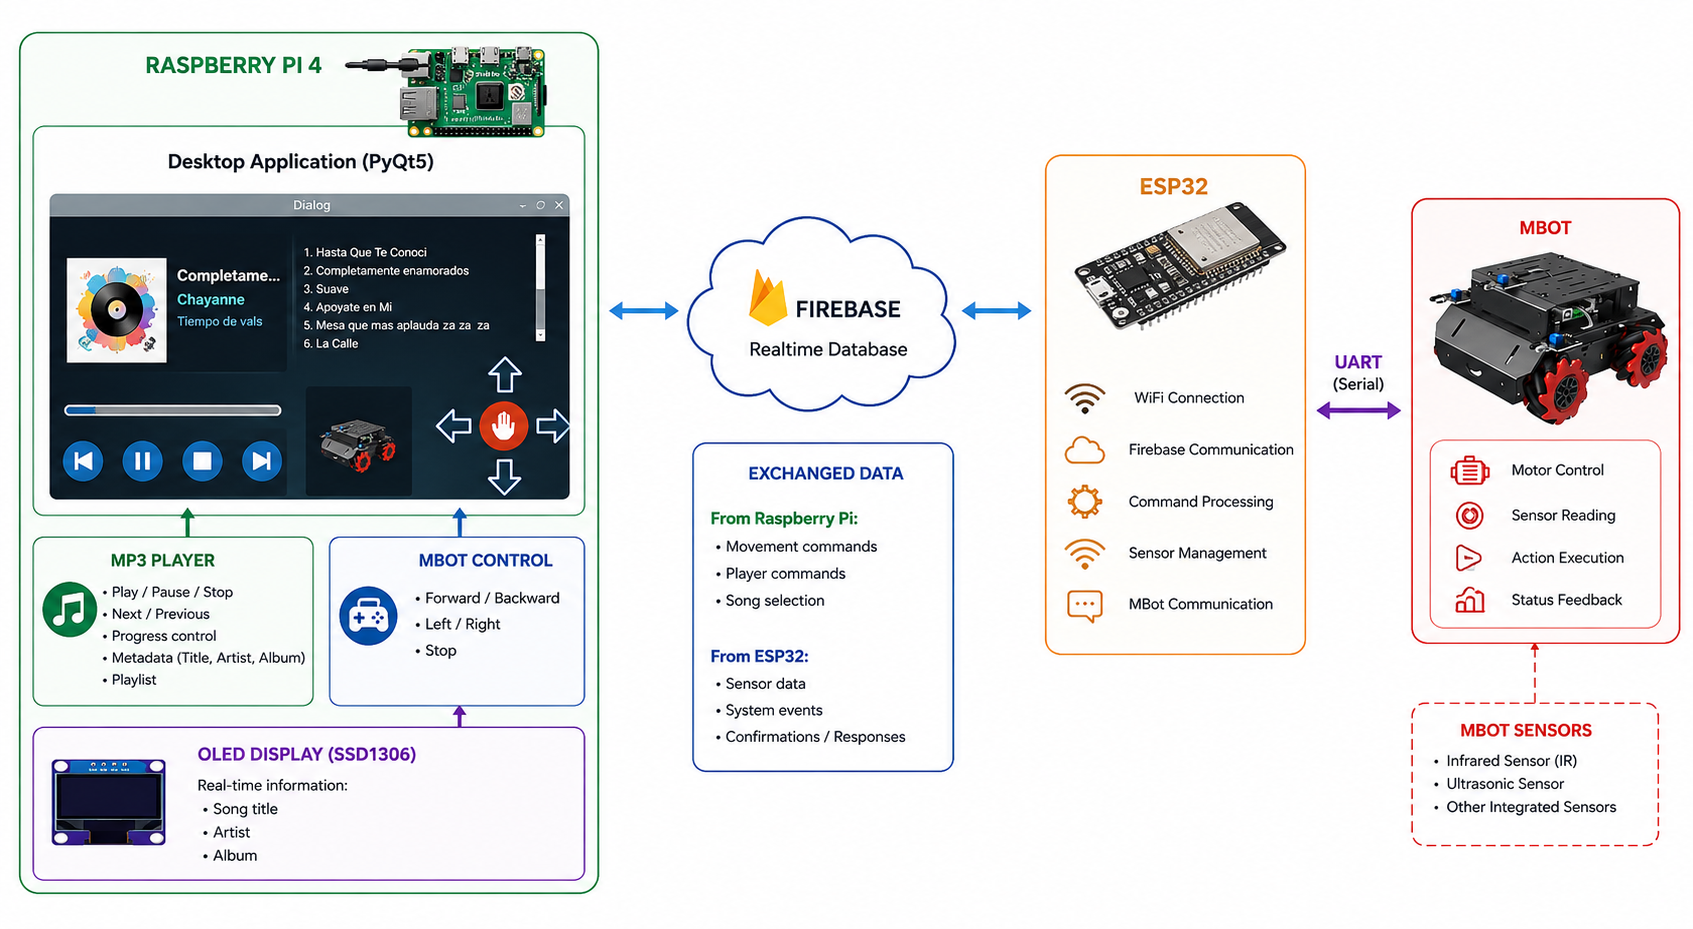
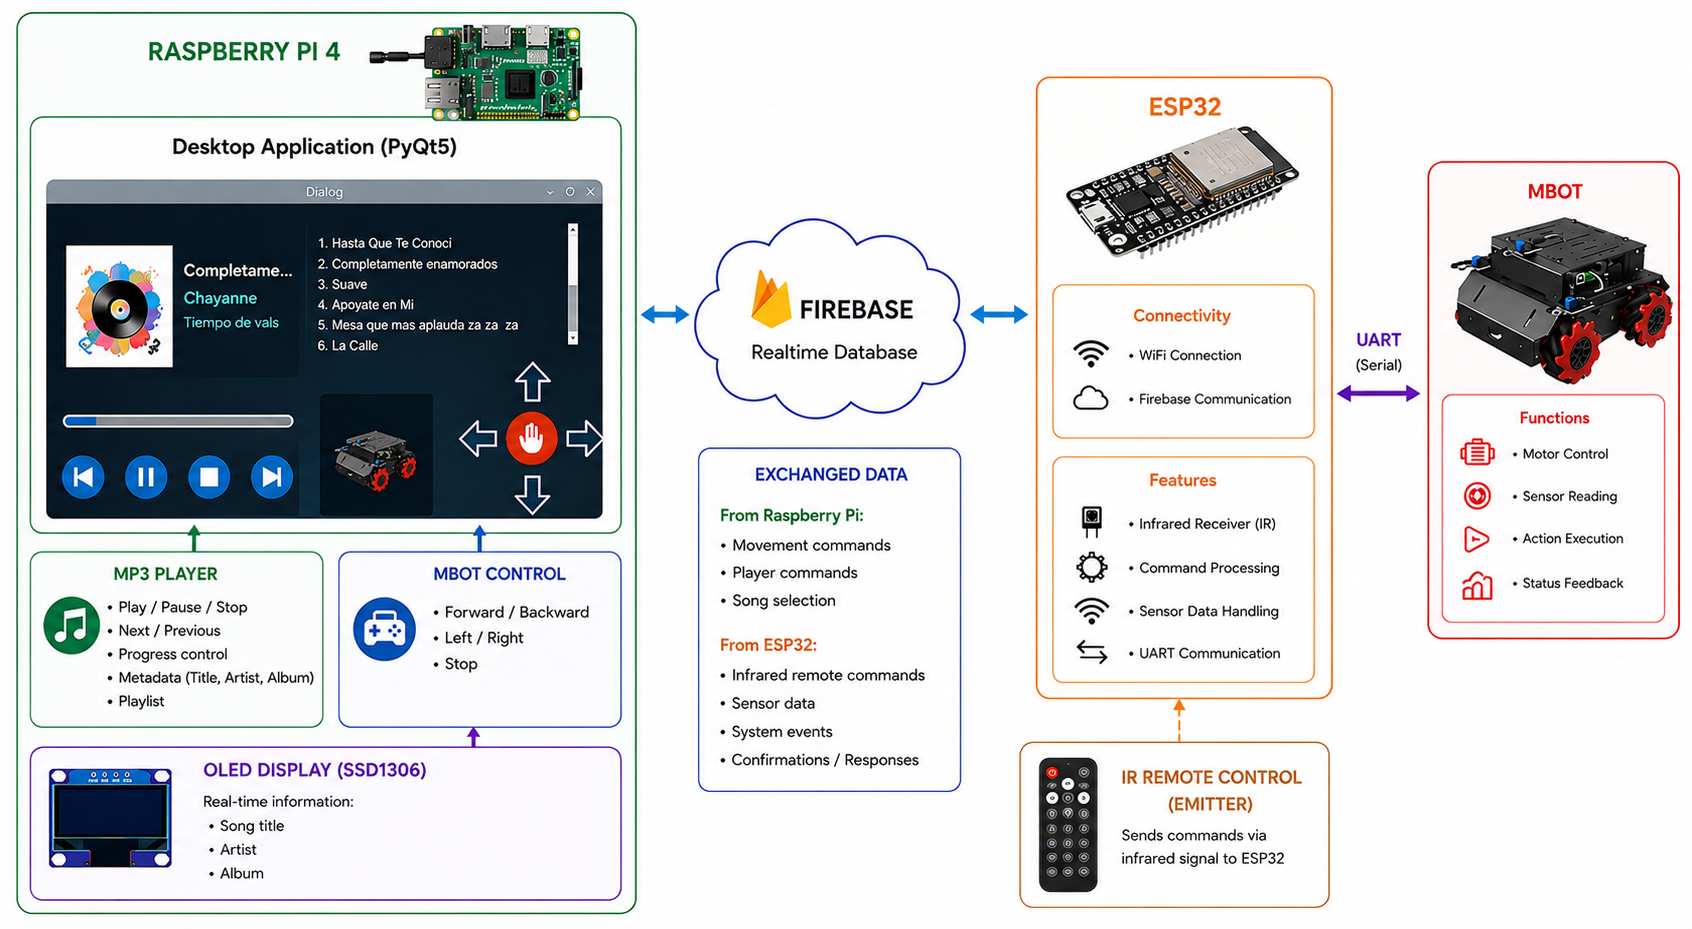
Update

Changed region(s): [[0.0, 0.0, 1.0, 0.9989], [0.8298, 0.7492, 0.9527, 0.8741], [0.461, 0.2185, 0.4917, 0.2497]]

diff --git a/README.md b/README.md
@@ -1,8 +1,20 @@
 # MBot Multimedia Control System
 
+> Academic project developed for **Diseño de Sistemas en Chip**
+> Tecnológico de Monterrey — March 2023 to June 2023
+
+---
+
+## System Architecture
+
 ![System Architecture](assets/architecture.png)
 
-> **Academic project developed for the course *Diseño de Sistemas en Chip* (March – June 2023).**
+The following video shows the complete system operating, including the desktop application, Raspberry Pi, ESP32 communication module, OLED display, infrared remote control, and MBot platform.
+
+**Demonstration Video:**
+[https://youtu.be/P5mfvfIwxGQ]
+
+---
 
 ## Team
 
@@ -11,13 +23,17 @@
 * Victor Manuel Vázquez Morales
 * Ángel Estrada Centeno
 
-## Overview
+---
 
-This project combines multimedia playback, embedded systems, wireless communication, and robotic control into a single integrated platform.
+## Project Overview
 
-A desktop application running on a Raspberry Pi 4 provides a graphical user interface capable of controlling both an MP3 player and an MBot mobile robot. Communication between the desktop application and the robot is performed through Firebase Realtime Database, allowing bidirectional exchange of commands and events.
+This project integrates multimedia playback, wireless communication, embedded systems, and mobile robotics into a single platform.
 
-The system also integrates an SSD1306 OLED display, an infrared remote control, and onboard robot sensors to create an interactive multimedia and robotic control experience.
+A desktop application running on a Raspberry Pi 4 provides an interface capable of controlling both an MP3 player and an MBot mobile robot. Communication between software and hardware is achieved through Firebase Realtime Database, allowing bidirectional communication between the desktop application and the embedded devices.
+
+The system also incorporates an SSD1306 OLED display for multimedia feedback and an infrared remote control capable of interacting with the application remotely through the ESP32 communication module.
+
+---
 
 ## System Components
 
@@ -27,124 +43,148 @@ Runs the desktop application developed in Python and PyQt5.
 
 Responsibilities:
 
-* MP3 playback and playlist management.
+* MP3 playback.
+* Playlist management.
 * Song metadata visualization.
 * OLED display updates.
-* MBot movement control.
+* MBot control interface.
 * Firebase communication.
 * Processing events generated by the robot.
 
-### ESP32
+---
 
-Acts as a communication gateway between Firebase and the MBot.
+### Desktop Application
+
+The graphical interface combines multimedia and robotic control features into a single application.
+
+Features:
+
+* Play, Pause and Stop controls.
+* Previous and Next track selection.
+* Song progress control.
+* Playlist visualization.
+* Song metadata extraction (Title, Artist and Album).
+* MBot directional controls.
+* Processing of commands received through Firebase.
+
+---
+
+### ESP32 Communication Module
+
+Acts as the communication gateway between the Raspberry Pi application and the MBot platform.
 
 Responsibilities:
 
 * WiFi connectivity.
 * Firebase communication.
-* Infrared remote control processing.
 * UART communication with the Arduino Mega.
-* Sensor event forwarding.
+* Reception of commands from an infrared remote control.
+* Publishing multimedia commands to Firebase.
+* Forwarding sensor information to Firebase.
+
+---
+
+### Infrared Remote Control
+
+An infrared remote control can interact directly with the ESP32.
+
+Supported actions include:
+
+* Play / Pause.
+* Next track.
+* Previous track.
+* Stop playback.
+* Direct song selection through numeric input.
+
+Commands received by the ESP32 are interpreted and published to Firebase, allowing the desktop application to react accordingly.
+
+---
 
 ### MBot Platform
 
-Responsible for robot movement and sensor monitoring.
+The MBot platform is controlled by an Arduino Mega running FreeRTOS.
 
 Responsibilities:
 
 * Motor control.
-* Sensor acquisition.
 * Execution of movement commands.
-* Event reporting.
-
-## Main Features
-
-### Multimedia System
-
-* MP3 playback.
-* Play / Pause / Stop controls.
-* Previous / Next track selection.
-* Playlist visualization.
-* Song metadata extraction (Title, Artist, Album).
-* Playback progress tracking.
-
-### Robot Control
-
-* Forward movement.
-* Backward movement.
-* Left turn.
-* Right turn.
-* Stop command.
-
-### Embedded Systems
-
-* SSD1306 OLED display.
-* Infrared remote control support.
-* Sensor-triggered events.
-* UART communication.
-* FreeRTOS-based task scheduling.
-
-## Technologies Used
-
-### Software
-
-* Python
-* PyQt5
-* Pygame
-* EyeD3
-* Firebase Realtime Database
-
-### Embedded
-
-* Raspberry Pi 4
-* ESP32
-* Arduino Mega
-* FreeRTOS
-* SSD1306 OLED Display
-
-## Demonstration Video
-
-A demonstration video showing the complete system in operation can be found here:
-
-**[Insert Video Link Here]**
-
-## Project Preservation Notes
-
-This repository is preserved as an archive of the original academic project completed in 2023.
-
-No functional redesigns, refactors, or feature modifications have been intentionally introduced. The only changes performed during archival were related to:
-
-* Repository organization.
-* Documentation improvements.
-* Asset restructuring.
-* Removal of unnecessary or machine-specific files.
-* Reduction of multimedia assets to demonstration samples.
-
-Although care was taken to preserve the original functionality, it is possible that small inconsistencies may exist due to differences between the original development environment and modern systems.
-
-Examples may include:
-
-* File path adjustments.
-* Dependency version differences.
-* Operating system specific behavior.
-* Hardware availability.
-
-These issues should generally be minor and can typically be resolved with small manual adjustments if the project is rebuilt.
-
-## Academic Context
-
-Course:
-
-**Diseño de Sistemas en Chip**
-
-Institution:
-
-**Tecnológico de Monterrey**
-
-Period:
-
-**March 2023 – June 2023**
+* Sensor monitoring.
+* Event generation.
+* Communication with the ESP32 through UART.
 
 ---
 
-This repository is maintained primarily for educational, archival, and portfolio purposes.
+### OLED Display (SSD1306)
+
+An SSD1306 OLED display connected to the Raspberry Pi provides real-time multimedia information.
+
+Displayed information includes:
+
+* Song title.
+* Artist.
+* Album.
+
+---
+
+## Communication Architecture
+
+### Raspberry Pi ↔ Firebase
+
+The desktop application exchanges information through Firebase Realtime Database.
+
+Examples:
+
+* Movement commands.
+* Multimedia commands.
+* Song selection.
+* Sensor events.
+
+### ESP32 ↔ Firebase
+
+The ESP32 continuously monitors Firebase and publishes events generated by the infrared remote control and robot hardware.
+
+### ESP32 ↔ Arduino Mega
+
+Communication between the ESP32 and MBot controller is performed through UART serial communication.
+
+### Remote Control → ESP32 → Firebase → Desktop Application
+
+Remote control commands are received by the ESP32, interpreted, uploaded to Firebase, and then processed by the desktop application.
+
+---
+
+## Preservation Notes
+
+This repository is preserved as an archive of the original academic project completed in 2023.
+
+No intentional modifications have been made to the original system architecture, functionality, or implementation. The only changes performed after the original submission were related to:
+
+* Documentation improvements.
+* Repository organization.
+* Asset restructuring.
+* Removal of machine-specific files.
+* Preservation and archival efforts.
+
+Although care was taken to maintain compatibility, this repository has not been actively maintained since the original course period.
+
+As a result, small inconsistencies may exist due to:
+
+* Dependency version differences.
+* Operating system changes.
+* Hardware availability.
+* File path adjustments.
+* Library deprecations.
+
+Any issues encountered when rebuilding the project should generally be minor and can typically be resolved through small manual adjustments.
+
+---
+
+## Academic Information
+
+**Course:** Diseño de Sistemas en Chip
+
+**Institution:** Tecnológico de Monterrey
+
+**Period:** March 2023 – June 2023
+
+---

diff --git a/firmware/README.md b/firmware/README.md
@@ -37,37 +37,3 @@ Responsibilities:
 This file should be uploaded to the Arduino Mega.# Firmware
 
 This directory contains the embedded software used by the MBot control system.
-
-## Files
-
-### ESP32.ino
-
-Firmware intended to run on the ESP32 communication module.
-
-Responsibilities:
-
-- Connect to the local WiFi network.
-- Communicate with Firebase Realtime Database.
-- Receive movement commands from Firebase.
-- Forward commands to the Arduino Mega through UART.
-- Receive commands from an infrared remote controller.
-- Publish multimedia control events to Firebase.
-- Receive sensor events from the robot and publish them to Firebase.
-
-This file should be uploaded to the ESP32 board.
-
----
-
-### MBOTFreeRTOS.ino
-
-Firmware intended to run on the Arduino Mega installed on the MBot platform.
-
-Responsibilities:
-
-- Receive movement commands from the ESP32.
-- Control robot motion.
-- Monitor onboard sensors.
-- Report sensor events back to the ESP32.
-- Execute concurrent tasks using FreeRTOS.
-
-This file should be uploaded to the Arduino Mega.
